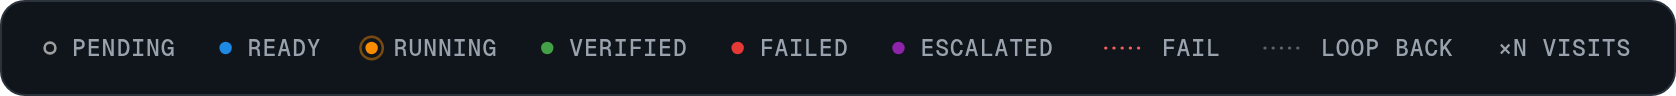
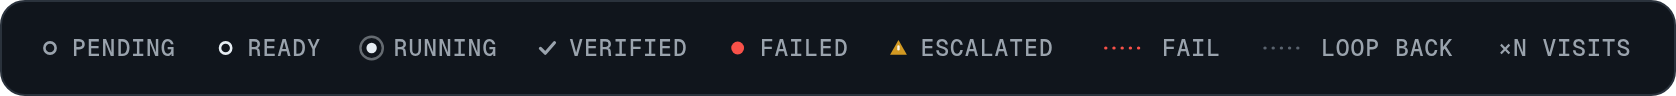
workgraph: mute the status palette to neutrals plus red and amber accents
Status now differs by border style and weight (dashed PENDING, outlined
READY, bold RUNNING, gray VERIFIED) with the accent reserved for FAILED
(red) and ESCALATED (amber). README sample graphs and key re-rendered to
match.

diff --git a/workgraph/README.md b/workgraph/README.md
@@ -7,7 +7,7 @@ Orchestrate work as a cyclic directed graph of subagent-executed nodes with tran
 ## Example graphs
 
 Every render uses the skill's fixed palette:
-`gray PENDING · blue READY · orange RUNNING · green VERIFIED · red FAILED · purple ESCALATED`
+`dashed PENDING · outlined READY · bold RUNNING · gray VERIFIED · red FAILED · amber ESCALATED`
 
 ### Database migration with dual-write and a rollback gate
 
@@ -23,7 +23,7 @@ back to `plan`.
 
 <picture>
   <source media="(prefers-color-scheme: dark)" srcset="./assets/graph-legend-dark.png">
-  <img src="./assets/graph-legend-light.png" width="680" alt="Key: hollow gray dot PENDING, blue READY, orange RUNNING, green VERIFIED, red FAILED, purple ESCALATED; red dotted line = FAIL edge; gray dotted line = loop back; ×N = visit count">
+  <img src="./assets/graph-legend-light.png" width="680" alt="Key: dashed ring PENDING, ring READY, bold ring RUNNING, check VERIFIED, red dot FAILED, amber triangle ESCALATED; red dotted line = FAIL edge; gray dotted line = loop back; ×N = visit count">
 </picture>
 
 ### Multi-source research report with fact-check and revision

diff --git a/workgraph/SKILL.md b/workgraph/SKILL.md
@@ -237,15 +237,15 @@ flowchart LR
   class spec,docs verified
   class build running
   class gate,merge pending
-  classDef pending fill:#9e9e9e,color:#fff
-  classDef ready fill:#1e88e5,color:#fff
-  classDef running fill:#fb8c00,color:#fff
-  classDef verified fill:#43a047,color:#fff
-  classDef failed fill:#e53935,color:#fff
-  classDef escalated fill:#8e24aa,color:#fff
+  classDef pending fill:#f6f8fa,stroke:#8c959f,stroke-dasharray:4 3,color:#656d76
+  classDef ready fill:#ffffff,stroke:#8c959f,color:#1f2328
+  classDef running fill:#ffffff,stroke:#1f2328,stroke-width:2.5px,color:#1f2328
+  classDef verified fill:#e8ecf0,stroke:#e8ecf0,color:#1f2328
+  classDef failed fill:#cf222e,stroke:#cf222e,color:#ffffff
+  classDef escalated fill:#fff8c5,stroke:#9a6700,stroke-width:2px,color:#1f2328
 ```
 
-Legend line: `gray PENDING · blue READY · orange RUNNING · green VERIFIED · red FAILED · purple ESCALATED`
+Legend line: `dashed PENDING · outlined READY · bold RUNNING · gray VERIFIED · red FAILED · amber ESCALATED`
 
 ## Phase 2: The Loop
 
